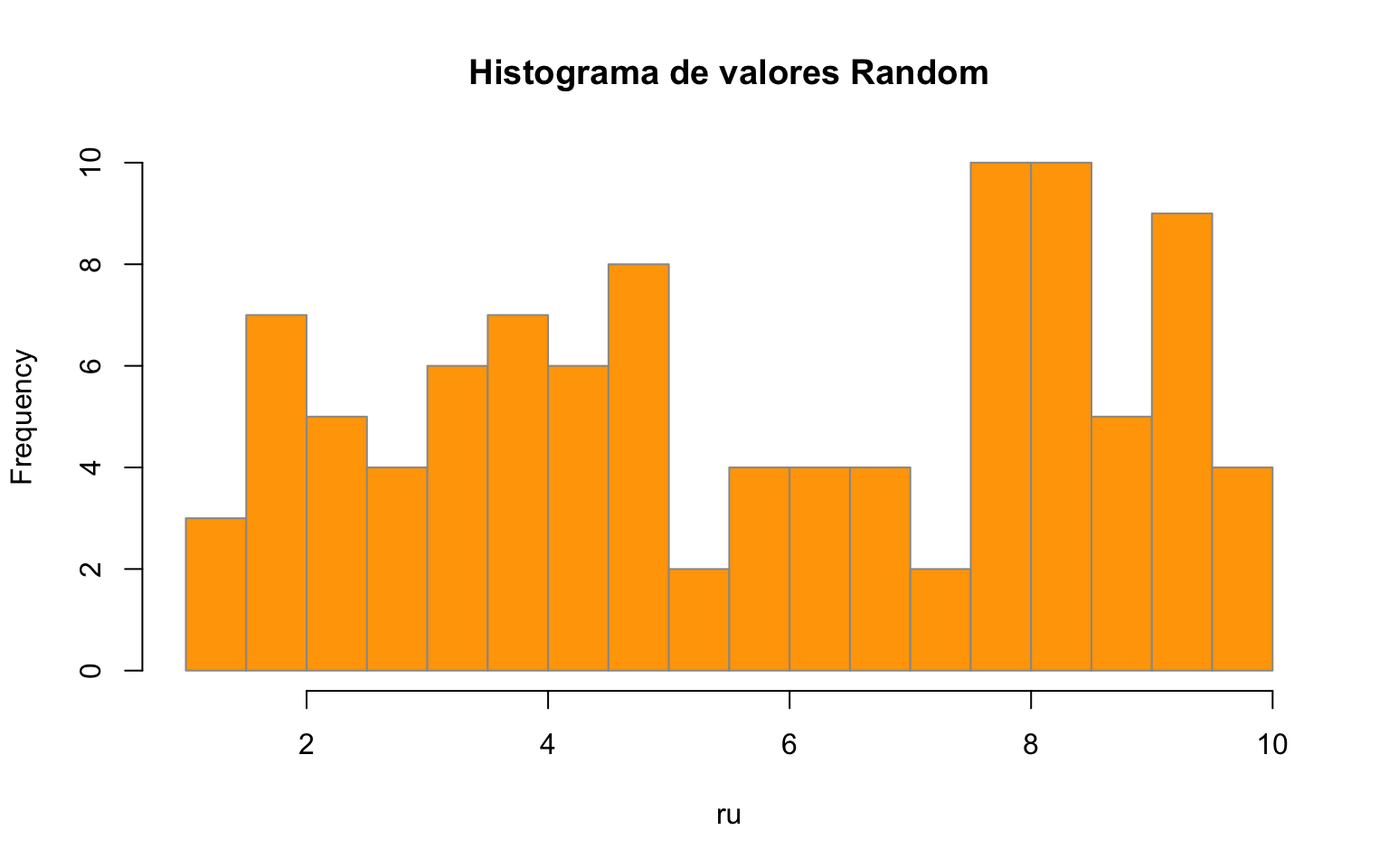
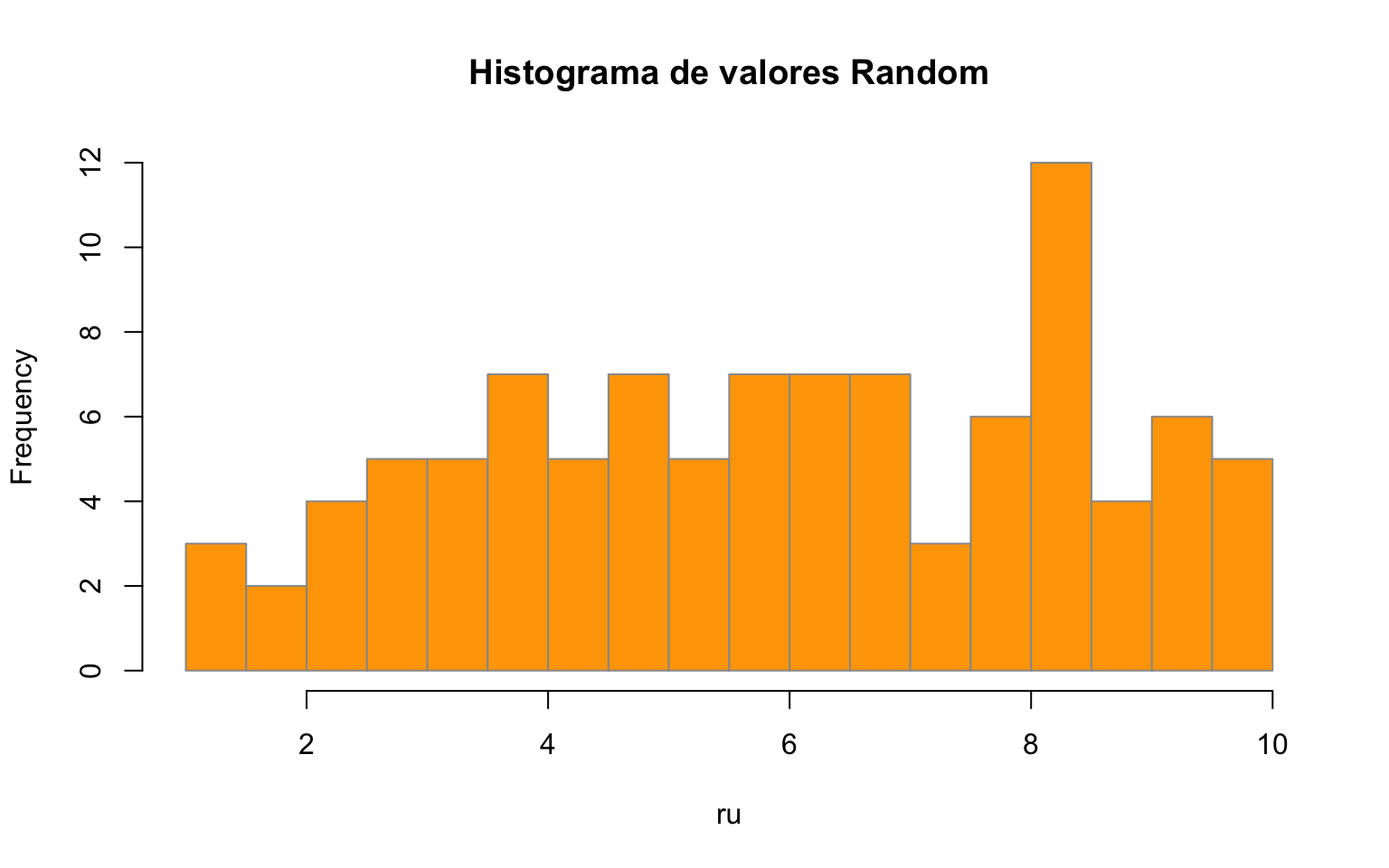
Built site for gh-pages

diff --git a/visualizaciones.html b/visualizaciones.html
@@ -383,6 +383,12 @@ Interpretación: Identificar concentración urbana o cobertura de datos.</p>
 </section>
 <section id="visualización-gráfica" class="level2" data-number="5.3">
 <h2 data-number="5.3" class="anchored" data-anchor-id="visualización-gráfica"><span class="header-section-number">5.3</span> Visualización gráfica</h2>
+<div class="quarto-figure quarto-figure-center">
+<figure class="figure">
+<p><img src="images/Rlogo.png" class="img-fluid quarto-figure quarto-figure-center figure-img" width="150"></p>
+</figure>
+</div>
+<p>A continaución se realizarán visualizaciones gráficas con R base</p>
 <section id="diagramas-de-barras-frecuencia-de-manzanas-por-comuna" class="level3" data-number="5.3.1">
 <h3 data-number="5.3.1" class="anchored" data-anchor-id="diagramas-de-barras-frecuencia-de-manzanas-por-comuna"><span class="header-section-number">5.3.1</span> Diagramas de barras (frecuencia de manzanas por comuna)</h3>
 <p>En este punto que generaremos algunos gráficos que visualicen la cantidad de manzanas que existen por comuna.</p>
@@ -483,8 +489,7 @@ Interpretación: Identificar concentración urbana o cobertura de datos.</p>
 <i class="callout-icon"></i>
 </div>
 <div class="callout-title-container flex-fill">
-valores outlier (atípicos)<br>
-
+valores outlier (atípicos)
 </div>
 <div class="callout-btn-toggle d-inline-block border-0 py-1 ps-1 pe-0 float-end"><i class="callout-toggle"></i></div>
 </div>
@@ -498,7 +503,7 @@ valores outlier (atípicos)<br>
 </ul></li>
 <li>¿Cómo extraer esos valores en R?</li>
 </ol>
-<p>Supamos que queremos identificar los outliers de cada comuna:</p>
+<p>Supongamos que queremos identificar los outliers de cada comuna:</p>
 <div class="cell">
 <div class="sourceCode cell-code" id="cb13"><pre class="sourceCode r code-with-copy"><code class="sourceCode r"><span id="cb13-1"><a href="#cb13-1" aria-hidden="true" tabindex="-1"></a>com_norte_sin_outliers <span class="ot">&lt;-</span> com_norte <span class="sc">%&gt;%</span></span>
 <span id="cb13-2"><a href="#cb13-2" aria-hidden="true" tabindex="-1"></a> <span class="fu">group_by</span>(n_com) <span class="sc">%&gt;%</span></span>
@@ -533,6 +538,11 @@ valores outlier (atípicos)<br>
 </section>
 <section id="visualización-avanzada-con-ggplot2" class="level2" data-number="5.4">
 <h2 data-number="5.4" class="anchored" data-anchor-id="visualización-avanzada-con-ggplot2"><span class="header-section-number">5.4</span> Visualización avanzada con <code>ggplot2</code></h2>
+<div class="quarto-figure quarto-figure-center">
+<figure class="figure">
+<p><img src="images/ggplot2.png" class="img-fluid quarto-figure quarto-figure-center figure-img" width="150"></p>
+</figure>
+</div>
 <p>La librería <a href="https://ggplot2.tidyverse.org/articles/ggplot2.html">ggplot2</a> es uno de los sistemas más potentes y versátiles para la visualización de datos en R. Basado en la “gramática de los gráficos”, permite construir visualizaciones complejas y altamente personalizables de manera estructurada y reproducible.</p>
 <p>Con ggplot2 puedes crear desde gráficos básicos como barras, histogramas y dispersión, hasta visualizaciones avanzadas, mapas y gráficos interactivos. La sintaxis está orientada a la composición modular: cada capa del gráfico (datos, geometría, escalas, temas, etiquetas) se define y ajusta de forma clara y coherente.</p>
 <section id="gráficos-de-barra-con-ggplot2" class="level3" data-number="5.4.1">
@@ -699,6 +709,11 @@ Actividad: Mejorar el estilo del gráficos
 </section>
 <section id="interactividad-con-plotly" class="level2" data-number="5.5">
 <h2 data-number="5.5" class="anchored" data-anchor-id="interactividad-con-plotly"><span class="header-section-number">5.5</span> Interactividad con <code>Plotly</code></h2>
+<div class="quarto-figure quarto-figure-center">
+<figure class="figure">
+<p><img src="images/Logo_Plotly.png" class="img-fluid quarto-figure quarto-figure-center figure-img" width="200"></p>
+</figure>
+</div>
 <p><code>Plotly</code> es una librería que permite convertir tus gráficos en R en visualizaciones interactivas, facilitando la exploración y el análisis visual de los datos. Plotly es especialmente útil para presentar resultados a audiencias no técnicas, ya que habilita funciones como zoom, hover (ver valores al pasar el mouse), selección dinámica y exportación directa.</p>
 <p>Puedes crear gráficos desde cero con la función <code>plot_ly()</code> o transformar gráficos estáticos de <code>ggplot2</code> en interactivos usando <code>ggplotly()</code>.</p>
 <p>La <a href="https://plotly.com/r/">documentación oficial de Plotly</a> para R ofrece numerosos ejemplos, tutoriales y guías para sacar el máximo provecho de sus capacidades interactivas en tus proyectos de análisis de datos.</p>
@@ -709,8 +724,8 @@ Actividad: Mejorar el estilo del gráficos
 <span id="cb19-3"><a href="#cb19-3" aria-hidden="true" tabindex="-1"></a></span>
 <span id="cb19-4"><a href="#cb19-4" aria-hidden="true" tabindex="-1"></a>bar_interactivo</span></code><button title="Copy to Clipboard" class="code-copy-button"><i class="bi"></i></button></pre></div>
 <div class="cell-output-display">
-<div class="plotly html-widget html-fill-item" id="htmlwidget-52bb167e75e817b739ad" style="width:100%;height:464px;"></div>
-<script type="application/json" data-for="htmlwidget-52bb167e75e817b739ad">{"x":{"data":[{"orientation":"h","width":[0.60000000000000009,0.59999999999999987,0.59999999999999964,0.59999999999999964,0.59999999999999964,0.59999999999999964,0.59999999999999964,0.60000000000000053,0.60000000000000142,0.60000000000000142],"base":[0,0,0,0,0,0,0,0,0,0],"x":[3692,3739,3842,4333,4342,4406,4509,4683,5772,5885],"y":[1,2,3,4,5,6,7,8,9,10],"text":["reorder(n_com, n): LA FLORIDA<br />n: 3692","reorder(n_com, n): RANCAGUA<br />n: 3739","reorder(n_com, n): PUERTO MONTT<br />n: 3842","reorder(n_com, n): TEMUCO<br />n: 4333","reorder(n_com, n): PUERTO NATALES<br />n: 4342","reorder(n_com, n): ANTOFAGASTA<br />n: 4406","reorder(n_com, n): VIÃ‘A DEL MAR<br />n: 4509","reorder(n_com, n): TALCA<br />n: 4683","reorder(n_com, n): MAIPU<br />n: 5772","reorder(n_com, n): PUENTE ALTO<br />n: 5885"],"type":"bar","textposition":"none","marker":{"autocolorscale":false,"color":"rgba(43,140,190,0.8)","line":{"width":1.8897637795275593,"color":"rgba(153,153,153,1)"}},"showlegend":false,"xaxis":"x","yaxis":"y","hoverinfo":"text","frame":null},{"x":[0,0,null,1000,1000,null,2000,2000,null,3000,3000,null,4000,4000,null,5000,5000],"y":[0.40000000000000002,10.6,null,0.40000000000000002,10.6,null,0.40000000000000002,10.6,null,0.40000000000000002,10.6,null,0.40000000000000002,10.6,null,0.40000000000000002,10.6],"text":["yintercept:    0","yintercept:    0",null,"yintercept: 1000","yintercept: 1000",null,"yintercept: 2000","yintercept: 2000",null,"yintercept: 3000","yintercept: 3000",null,"yintercept: 4000","yintercept: 4000",null,"yintercept: 5000","yintercept: 5000"],"type":"scatter","mode":"lines","line":{"width":1.5118110236220474,"color":"rgba(204,204,204,1)","dash":"dot"},"hoveron":"points","showlegend":false,"xaxis":"x","yaxis":"y","hoverinfo":"text","frame":null},{"x":[3692,3739,3842,4333,4342,4406,4509,4683,5772,5885],"y":[1,2,3,4,5,6,7,8,9,10],"text":[3692,3739,3842,4333,4342,4406,4509,4683,5772,5885],"hovertext":["reorder(n_com, n): LA FLORIDA<br />n: 3692<br />n: 3692","reorder(n_com, n): RANCAGUA<br />n: 3739<br />n: 3739","reorder(n_com, n): PUERTO MONTT<br />n: 3842<br />n: 3842","reorder(n_com, n): TEMUCO<br />n: 4333<br />n: 4333","reorder(n_com, n): PUERTO NATALES<br />n: 4342<br />n: 4342","reorder(n_com, n): ANTOFAGASTA<br />n: 4406<br />n: 4406","reorder(n_com, n): VIÃ‘A DEL MAR<br />n: 4509<br />n: 4509","reorder(n_com, n): TALCA<br />n: 4683<br />n: 4683","reorder(n_com, n): MAIPU<br />n: 5772<br />n: 5772","reorder(n_com, n): PUENTE ALTO<br />n: 5885<br />n: 5885"],"textfont":{"size":15.118110236220474,"color":"rgba(255,255,255,1)"},"type":"scatter","mode":"text","hoveron":"points","showlegend":false,"xaxis":"x","yaxis":"y","hoverinfo":"text","frame":null}],"layout":{"margin":{"t":54.522208385222093,"r":19.925280199252807,"b":53.997509339975103,"l":120.94645080946452},"plot_bgcolor":"rgba(255,255,255,1)","paper_bgcolor":"rgba(255,255,255,1)","font":{"color":"rgba(0,0,0,1)","family":"","size":17.268576172685762},"title":{"text":"<b> Top 10 comunas por <span style='color:#2B8CBE'>número de manzanas<\/span> <\/b>","font":{"color":"rgba(0,0,0,1)","family":"","size":19.925280199252807},"x":0,"xref":"paper"},"xaxis":{"domain":[0,1],"automargin":true,"type":"linear","autorange":false,"range":[-294.25,6179.25],"tickmode":"array","ticktext":["0","2000","4000","6000"],"tickvals":[0,2000,4000,6000],"categoryorder":"array","categoryarray":["0","2000","4000","6000"],"nticks":null,"ticks":"outside","tickcolor":"rgba(51,51,51,1)","ticklen":4.3171440431714405,"tickwidth":0.78493528057662576,"showticklabels":true,"tickfont":{"color":"rgba(77,77,77,1)","family":"","size":13.814860938148611},"tickangle":-0,"showline":false,"linecolor":null,"linewidth":0,"showgrid":true,"gridcolor":"rgba(235,235,235,1)","gridwidth":0.78493528057662576,"zeroline":false,"anchor":"y","title":{"text":"N° Manzanas","font":{"color":"rgba(0,0,0,1)","family":"","size":17.268576172685762}},"hoverformat":".2f"},"yaxis":{"domain":[0,1],"automargin":true,"type":"linear","autorange":false,"range":[0.40000000000000002,10.6],"tickmode":"array","ticktext":["LA FLORIDA","RANCAGUA","PUERTO MONTT","TEMUCO","PUERTO NATALES","ANTOFAGASTA","VIÃ‘A DEL MAR","TALCA","MAIPU","PUENTE ALTO"],"tickvals":[1,2,3,4,5,6.0000000000000009,7,8,9,10],"categoryorder":"array","categoryarray":["LA FLORIDA","RANCAGUA","PUERTO MONTT","TEMUCO","PUERTO NATALES","ANTOFAGASTA","VIÃ‘A DEL MAR","TALCA","MAIPU","PUENTE ALTO"],"nticks":null,"ticks":"outside","tickcolor":"rgba(51,51,51,1)","ticklen":4.3171440431714423,"tickwidth":0.78493528057662576,"showticklabels":true,"tickfont":{"color":"rgba(43,140,190,1)","family":"","size":13.814860938148611},"tickangle":-0,"showline":false,"linecolor":null,"linewidth":0,"showgrid":false,"gridcolor":null,"gridwidth":0,"zeroline":false,"anchor":"x","title":{"text":"","font":{"color":"rgba(0,0,0,1)","family":"","size":17.268576172685762}},"hoverformat":".2f"},"shapes":[{"type":"rect","fillcolor":"transparent","line":{"color":"rgba(51,51,51,1)","width":0.78493528057662576,"linetype":"solid"},"yref":"paper","xref":"paper","layer":"below","x0":0,"x1":1,"y0":0,"y1":1}],"showlegend":false,"legend":{"bgcolor":"rgba(255,255,255,1)","bordercolor":"transparent","borderwidth":2.2333571939871155,"font":{"color":"rgba(0,0,0,1)","family":"","size":13.814860938148611}},"hovermode":"closest","barmode":"relative"},"config":{"doubleClick":"reset","modeBarButtonsToAdd":["hoverclosest","hovercompare"],"showSendToCloud":false},"source":"A","attrs":{"31b98b990e8":{"x":{},"y":{},"type":"bar"},"31b94ed873d1":{"yintercept":{}},"31b9649bc6c7":{"x":{},"y":{},"label":{}}},"cur_data":"31b98b990e8","visdat":{"31b98b990e8":["function (y) ","x"],"31b94ed873d1":["function (y) ","x"],"31b9649bc6c7":["function (y) ","x"]},"highlight":{"on":"plotly_click","persistent":false,"dynamic":false,"selectize":false,"opacityDim":0.20000000000000001,"selected":{"opacity":1},"debounce":0},"shinyEvents":["plotly_hover","plotly_click","plotly_selected","plotly_relayout","plotly_brushed","plotly_brushing","plotly_clickannotation","plotly_doubleclick","plotly_deselect","plotly_afterplot","plotly_sunburstclick"],"base_url":"https://plot.ly"},"evals":[],"jsHooks":[]}</script>
+<div class="plotly html-widget html-fill-item" id="htmlwidget-ad5a15cabad94cd97b17" style="width:100%;height:464px;"></div>
+<script type="application/json" data-for="htmlwidget-ad5a15cabad94cd97b17">{"x":{"data":[{"orientation":"h","width":[0.60000000000000009,0.59999999999999987,0.59999999999999964,0.59999999999999964,0.59999999999999964,0.59999999999999964,0.59999999999999964,0.60000000000000053,0.60000000000000142,0.60000000000000142],"base":[0,0,0,0,0,0,0,0,0,0],"x":[3692,3739,3842,4333,4342,4406,4509,4683,5772,5885],"y":[1,2,3,4,5,6,7,8,9,10],"text":["reorder(n_com, n): LA FLORIDA<br />n: 3692","reorder(n_com, n): RANCAGUA<br />n: 3739","reorder(n_com, n): PUERTO MONTT<br />n: 3842","reorder(n_com, n): TEMUCO<br />n: 4333","reorder(n_com, n): PUERTO NATALES<br />n: 4342","reorder(n_com, n): ANTOFAGASTA<br />n: 4406","reorder(n_com, n): VIÃ‘A DEL MAR<br />n: 4509","reorder(n_com, n): TALCA<br />n: 4683","reorder(n_com, n): MAIPU<br />n: 5772","reorder(n_com, n): PUENTE ALTO<br />n: 5885"],"type":"bar","textposition":"none","marker":{"autocolorscale":false,"color":"rgba(43,140,190,0.8)","line":{"width":1.8897637795275593,"color":"rgba(153,153,153,1)"}},"showlegend":false,"xaxis":"x","yaxis":"y","hoverinfo":"text","frame":null},{"x":[0,0,null,1000,1000,null,2000,2000,null,3000,3000,null,4000,4000,null,5000,5000],"y":[0.40000000000000002,10.6,null,0.40000000000000002,10.6,null,0.40000000000000002,10.6,null,0.40000000000000002,10.6,null,0.40000000000000002,10.6,null,0.40000000000000002,10.6],"text":["yintercept:    0","yintercept:    0",null,"yintercept: 1000","yintercept: 1000",null,"yintercept: 2000","yintercept: 2000",null,"yintercept: 3000","yintercept: 3000",null,"yintercept: 4000","yintercept: 4000",null,"yintercept: 5000","yintercept: 5000"],"type":"scatter","mode":"lines","line":{"width":1.5118110236220474,"color":"rgba(204,204,204,1)","dash":"dot"},"hoveron":"points","showlegend":false,"xaxis":"x","yaxis":"y","hoverinfo":"text","frame":null},{"x":[3692,3739,3842,4333,4342,4406,4509,4683,5772,5885],"y":[1,2,3,4,5,6,7,8,9,10],"text":[3692,3739,3842,4333,4342,4406,4509,4683,5772,5885],"hovertext":["reorder(n_com, n): LA FLORIDA<br />n: 3692<br />n: 3692","reorder(n_com, n): RANCAGUA<br />n: 3739<br />n: 3739","reorder(n_com, n): PUERTO MONTT<br />n: 3842<br />n: 3842","reorder(n_com, n): TEMUCO<br />n: 4333<br />n: 4333","reorder(n_com, n): PUERTO NATALES<br />n: 4342<br />n: 4342","reorder(n_com, n): ANTOFAGASTA<br />n: 4406<br />n: 4406","reorder(n_com, n): VIÃ‘A DEL MAR<br />n: 4509<br />n: 4509","reorder(n_com, n): TALCA<br />n: 4683<br />n: 4683","reorder(n_com, n): MAIPU<br />n: 5772<br />n: 5772","reorder(n_com, n): PUENTE ALTO<br />n: 5885<br />n: 5885"],"textfont":{"size":15.118110236220474,"color":"rgba(255,255,255,1)"},"type":"scatter","mode":"text","hoveron":"points","showlegend":false,"xaxis":"x","yaxis":"y","hoverinfo":"text","frame":null}],"layout":{"margin":{"t":54.522208385222093,"r":19.925280199252807,"b":53.997509339975103,"l":120.94645080946452},"plot_bgcolor":"rgba(255,255,255,1)","paper_bgcolor":"rgba(255,255,255,1)","font":{"color":"rgba(0,0,0,1)","family":"","size":17.268576172685762},"title":{"text":"<b> Top 10 comunas por <span style='color:#2B8CBE'>número de manzanas<\/span> <\/b>","font":{"color":"rgba(0,0,0,1)","family":"","size":19.925280199252807},"x":0,"xref":"paper"},"xaxis":{"domain":[0,1],"automargin":true,"type":"linear","autorange":false,"range":[-294.25,6179.25],"tickmode":"array","ticktext":["0","2000","4000","6000"],"tickvals":[0,2000,4000,6000],"categoryorder":"array","categoryarray":["0","2000","4000","6000"],"nticks":null,"ticks":"outside","tickcolor":"rgba(51,51,51,1)","ticklen":4.3171440431714405,"tickwidth":0.78493528057662576,"showticklabels":true,"tickfont":{"color":"rgba(77,77,77,1)","family":"","size":13.814860938148611},"tickangle":-0,"showline":false,"linecolor":null,"linewidth":0,"showgrid":true,"gridcolor":"rgba(235,235,235,1)","gridwidth":0.78493528057662576,"zeroline":false,"anchor":"y","title":{"text":"N° Manzanas","font":{"color":"rgba(0,0,0,1)","family":"","size":17.268576172685762}},"hoverformat":".2f"},"yaxis":{"domain":[0,1],"automargin":true,"type":"linear","autorange":false,"range":[0.40000000000000002,10.6],"tickmode":"array","ticktext":["LA FLORIDA","RANCAGUA","PUERTO MONTT","TEMUCO","PUERTO NATALES","ANTOFAGASTA","VIÃ‘A DEL MAR","TALCA","MAIPU","PUENTE ALTO"],"tickvals":[1,2,3,4,5,6.0000000000000009,7,8,9,10],"categoryorder":"array","categoryarray":["LA FLORIDA","RANCAGUA","PUERTO MONTT","TEMUCO","PUERTO NATALES","ANTOFAGASTA","VIÃ‘A DEL MAR","TALCA","MAIPU","PUENTE ALTO"],"nticks":null,"ticks":"outside","tickcolor":"rgba(51,51,51,1)","ticklen":4.3171440431714423,"tickwidth":0.78493528057662576,"showticklabels":true,"tickfont":{"color":"rgba(43,140,190,1)","family":"","size":13.814860938148611},"tickangle":-0,"showline":false,"linecolor":null,"linewidth":0,"showgrid":false,"gridcolor":null,"gridwidth":0,"zeroline":false,"anchor":"x","title":{"text":"","font":{"color":"rgba(0,0,0,1)","family":"","size":17.268576172685762}},"hoverformat":".2f"},"shapes":[{"type":"rect","fillcolor":"transparent","line":{"color":"rgba(51,51,51,1)","width":0.78493528057662576,"linetype":"solid"},"yref":"paper","xref":"paper","layer":"below","x0":0,"x1":1,"y0":0,"y1":1}],"showlegend":false,"legend":{"bgcolor":"rgba(255,255,255,1)","bordercolor":"transparent","borderwidth":2.2333571939871155,"font":{"color":"rgba(0,0,0,1)","family":"","size":13.814860938148611}},"hovermode":"closest","barmode":"relative"},"config":{"doubleClick":"reset","modeBarButtonsToAdd":["hoverclosest","hovercompare"],"showSendToCloud":false},"source":"A","attrs":{"410a3e5445fc":{"x":{},"y":{},"type":"bar"},"410aebec35c":{"yintercept":{}},"410ae0bd494":{"x":{},"y":{},"label":{}}},"cur_data":"410a3e5445fc","visdat":{"410a3e5445fc":["function (y) ","x"],"410aebec35c":["function (y) ","x"],"410ae0bd494":["function (y) ","x"]},"highlight":{"on":"plotly_click","persistent":false,"dynamic":false,"selectize":false,"opacityDim":0.20000000000000001,"selected":{"opacity":1},"debounce":0},"shinyEvents":["plotly_hover","plotly_click","plotly_selected","plotly_relayout","plotly_brushed","plotly_brushing","plotly_clickannotation","plotly_doubleclick","plotly_deselect","plotly_afterplot","plotly_sunburstclick"],"base_url":"https://plot.ly"},"evals":[],"jsHooks":[]}</script>
 </div>
 </div>
 <div class="callout callout-style-default callout-note callout-titled">

diff --git a/dataframes.html b/dataframes.html
@@ -535,8 +535,8 @@ Acceso a Datos de Casos Policiales Sala CEAD
 <span id="cb22-4"><a href="#cb22-4" aria-hidden="true" tabindex="-1"></a><span class="co"># Convertir un gráfico estático en dinámico</span></span>
 <span id="cb22-5"><a href="#cb22-5" aria-hidden="true" tabindex="-1"></a><span class="fu">ggplotly</span>(g_barra)</span></code><button title="Copy to Clipboard" class="code-copy-button"><i class="bi"></i></button></pre></div>
 <div class="cell-output-display">
-<div class="plotly html-widget html-fill-item" id="htmlwidget-53f10add0d4ea9c3ae4d" style="width:100%;height:464px;"></div>
-<script type="application/json" data-for="htmlwidget-53f10add0d4ea9c3ae4d">{"x":{"data":[{"orientation":"h","width":[0.70000000000000007,0.70000000000000018,0.70000000000000018,0.69999999999999973,0.69999999999999929,0.69999999999999929,0.69999999999999929,0.69999999999999929,0.69999999999999929,0.69999999999999929,0.69999999999999929,0.69999999999999929,0.69999999999999929,0.69999999999999929,0.69999999999999929,0.70000000000000107,0.70000000000000284,0.70000000000000284,0.70000000000000284,0.70000000000000284,0.70000000000000284,0.70000000000000284,0.70000000000000284,0.70000000000000284,0.70000000000000284,0.70000000000000284,0.70000000000000284,0.70000000000000284,0.70000000000000284,0.70000000000000284,0.70000000000000284,0.70000000000000284],"base":[0,0,0,0,0,0,0,0,0,0,0,0,0,0,0,0,0,0,0,0,0,0,0,0,0,0,0,0,0,0,0,0],"x":[27.760000000000002,15.539999999999999,28.489999999999998,44.189999999999998,11,19.129999999999999,17.66,68.799999999999997,27.469999999999999,26.02,31.23,20.739999999999998,26.359999999999999,27.93,19.41,15.73,19.82,20.379999999999999,23.289999999999999,17.379999999999999,33.840000000000003,28.510000000000002,28.890000000000001,29.390000000000001,25.850000000000001,38.700000000000003,13.970000000000001,14.4,38.939999999999998,31.379999999999999,26.780000000000001,33.43],"y":[1,2,3,4,5,6,7,8,9,10,11,12,13,14,15,16,17,18,19,20,21,22,23,24,25,26,27,28,29,30,31,32],"text":["NOM_COMUNA: ANGOL<br />del_10000_hab: 27.76","NOM_COMUNA: CARAHUE<br />del_10000_hab: 15.54","NOM_COMUNA: CHOLCHOL<br />del_10000_hab: 28.49","NOM_COMUNA: COLLIPULLI<br />del_10000_hab: 44.19","NOM_COMUNA: CUNCO<br />del_10000_hab: 11.00","NOM_COMUNA: CURACAUTÍN<br />del_10000_hab: 19.13","NOM_COMUNA: CURARREHUE<br />del_10000_hab: 17.66","NOM_COMUNA: ERCILLA<br />del_10000_hab: 68.80","NOM_COMUNA: FREIRE<br />del_10000_hab: 27.47","NOM_COMUNA: GALVARINO<br />del_10000_hab: 26.02","NOM_COMUNA: GORBEA<br />del_10000_hab: 31.23","NOM_COMUNA: LAUTARO<br />del_10000_hab: 20.74","NOM_COMUNA: LONCOCHE<br />del_10000_hab: 26.36","NOM_COMUNA: LONQUIMAY<br />del_10000_hab: 27.93","NOM_COMUNA: LOS SAUCES<br />del_10000_hab: 19.41","NOM_COMUNA: LUMACO<br />del_10000_hab: 15.73","NOM_COMUNA: MELIPEUCO<br />del_10000_hab: 19.82","NOM_COMUNA: NUEVA IMPERIAL<br />del_10000_hab: 20.38","NOM_COMUNA: PADRE LAS CASAS<br />del_10000_hab: 23.29","NOM_COMUNA: PERQUENCO<br />del_10000_hab: 17.38","NOM_COMUNA: PITRUFQUÉN<br />del_10000_hab: 33.84","NOM_COMUNA: PUCÓN<br />del_10000_hab: 28.51","NOM_COMUNA: PURÉN<br />del_10000_hab: 28.89","NOM_COMUNA: RENAICO<br />del_10000_hab: 29.39","NOM_COMUNA: SAAVEDRA<br />del_10000_hab: 25.85","NOM_COMUNA: TEMUCO<br />del_10000_hab: 38.70","NOM_COMUNA: TEODORO SCHMIDT<br />del_10000_hab: 13.97","NOM_COMUNA: TOLTÉN<br />del_10000_hab: 14.40","NOM_COMUNA: TRAIGUÉN<br />del_10000_hab: 38.94","NOM_COMUNA: VICTORIA<br />del_10000_hab: 31.38","NOM_COMUNA: VILCÚN<br />del_10000_hab: 26.78","NOM_COMUNA: VILLARRICA<br />del_10000_hab: 33.43"],"type":"bar","textposition":"none","marker":{"autocolorscale":false,"color":"rgba(106,81,163,1)","line":{"width":1.8897637795275593,"color":"rgba(229,229,229,1)"}},"showlegend":false,"xaxis":"x","yaxis":"y","hoverinfo":"text","frame":null}],"layout":{"margin":{"t":42.168534661685349,"r":7.3059360730593621,"b":40.182648401826498,"l":113.24200913242012},"plot_bgcolor":"rgba(255,255,255,1)","paper_bgcolor":"rgba(255,255,255,1)","font":{"color":"rgba(0,0,0,1)","family":"","size":14.611872146118724},"title":{"text":"<b> Delitos Violentos en la Región de la Araucanía <\/b>","font":{"color":"rgba(51,51,51,1)","family":"","size":15.940224159402241},"x":0,"xref":"paper"},"xaxis":{"domain":[0,1],"automargin":true,"type":"linear","autorange":false,"range":[-3.4399999999999999,72.239999999999995],"tickmode":"array","ticktext":["0","20","40","60"],"tickvals":[0,20,40,60],"categoryorder":"array","categoryarray":["0","20","40","60"],"nticks":null,"ticks":"outside","tickcolor":"rgba(51,51,51,1)","ticklen":3.6529680365296811,"tickwidth":0.66417600664176002,"showticklabels":true,"tickfont":{"color":"rgba(77,77,77,1)","family":"","size":11.68949771689498},"tickangle":-0,"showline":false,"linecolor":null,"linewidth":0,"showgrid":true,"gridcolor":"rgba(235,235,235,1)","gridwidth":0.66417600664176002,"zeroline":false,"anchor":"y","title":{"text":"Delitos Violentos / 10000 hebitantes","font":{"color":"rgba(0,0,0,1)","family":"","size":14.611872146118724}},"hoverformat":".2f"},"yaxis":{"domain":[0,1],"automargin":true,"type":"linear","autorange":false,"range":[0.40000000000000002,32.600000000000001],"tickmode":"array","ticktext":["ANGOL","CARAHUE","CHOLCHOL","COLLIPULLI","CUNCO","CURACAUTÍN","CURARREHUE","ERCILLA","FREIRE","GALVARINO","GORBEA","LAUTARO","LONCOCHE","LONQUIMAY","LOS SAUCES","LUMACO","MELIPEUCO","NUEVA IMPERIAL","PADRE LAS CASAS","PERQUENCO","PITRUFQUÉN","PUCÓN","PURÉN","RENAICO","SAAVEDRA","TEMUCO","TEODORO SCHMIDT","TOLTÉN","TRAIGUÉN","VICTORIA","VILCÚN","VILLARRICA"],"tickvals":[1,2,3,4,5,6,7,8,9,10,11,12,13,14,15,16,17,18,19,20,21,22,23,24,25,26,27,28,29,30,31,32],"categoryorder":"array","categoryarray":["ANGOL","CARAHUE","CHOLCHOL","COLLIPULLI","CUNCO","CURACAUTÍN","CURARREHUE","ERCILLA","FREIRE","GALVARINO","GORBEA","LAUTARO","LONCOCHE","LONQUIMAY","LOS SAUCES","LUMACO","MELIPEUCO","NUEVA IMPERIAL","PADRE LAS CASAS","PERQUENCO","PITRUFQUÉN","PUCÓN","PURÉN","RENAICO","SAAVEDRA","TEMUCO","TEODORO SCHMIDT","TOLTÉN","TRAIGUÉN","VICTORIA","VILCÚN","VILLARRICA"],"nticks":null,"ticks":"outside","tickcolor":"rgba(51,51,51,1)","ticklen":3.6529680365296811,"tickwidth":0.66417600664176002,"showticklabels":true,"tickfont":{"color":"rgba(77,77,77,1)","family":"","size":11.68949771689498},"tickangle":-0,"showline":false,"linecolor":null,"linewidth":0,"showgrid":true,"gridcolor":"rgba(235,235,235,1)","gridwidth":0.66417600664176002,"zeroline":false,"anchor":"x","title":{"text":"Nombre de Comuna","font":{"color":"rgba(0,0,0,1)","family":"","size":14.611872146118724}},"hoverformat":".2f"},"shapes":[{"type":"rect","fillcolor":"transparent","line":{"color":"rgba(51,51,51,1)","width":0.66417600664176002,"linetype":"solid"},"yref":"paper","xref":"paper","layer":"below","x0":0,"x1":1,"y0":0,"y1":1}],"showlegend":false,"legend":{"bgcolor":"rgba(255,255,255,1)","bordercolor":"transparent","borderwidth":1.8897637795275593,"font":{"color":"rgba(0,0,0,1)","family":"","size":11.68949771689498}},"hovermode":"closest","barmode":"relative"},"config":{"doubleClick":"reset","modeBarButtonsToAdd":["hoverclosest","hovercompare"],"showSendToCloud":false},"source":"A","attrs":{"31e17d19f58e":{"x":{},"y":{},"type":"bar"}},"cur_data":"31e17d19f58e","visdat":{"31e17d19f58e":["function (y) ","x"]},"highlight":{"on":"plotly_click","persistent":false,"dynamic":false,"selectize":false,"opacityDim":0.20000000000000001,"selected":{"opacity":1},"debounce":0},"shinyEvents":["plotly_hover","plotly_click","plotly_selected","plotly_relayout","plotly_brushed","plotly_brushing","plotly_clickannotation","plotly_doubleclick","plotly_deselect","plotly_afterplot","plotly_sunburstclick"],"base_url":"https://plot.ly"},"evals":[],"jsHooks":[]}</script>
+<div class="plotly html-widget html-fill-item" id="htmlwidget-950af2592f4a24f33d27" style="width:100%;height:464px;"></div>
+<script type="application/json" data-for="htmlwidget-950af2592f4a24f33d27">{"x":{"data":[{"orientation":"h","width":[0.70000000000000007,0.70000000000000018,0.70000000000000018,0.69999999999999973,0.69999999999999929,0.69999999999999929,0.69999999999999929,0.69999999999999929,0.69999999999999929,0.69999999999999929,0.69999999999999929,0.69999999999999929,0.69999999999999929,0.69999999999999929,0.69999999999999929,0.70000000000000107,0.70000000000000284,0.70000000000000284,0.70000000000000284,0.70000000000000284,0.70000000000000284,0.70000000000000284,0.70000000000000284,0.70000000000000284,0.70000000000000284,0.70000000000000284,0.70000000000000284,0.70000000000000284,0.70000000000000284,0.70000000000000284,0.70000000000000284,0.70000000000000284],"base":[0,0,0,0,0,0,0,0,0,0,0,0,0,0,0,0,0,0,0,0,0,0,0,0,0,0,0,0,0,0,0,0],"x":[27.760000000000002,15.539999999999999,28.489999999999998,44.189999999999998,11,19.129999999999999,17.66,68.799999999999997,27.469999999999999,26.02,31.23,20.739999999999998,26.359999999999999,27.93,19.41,15.73,19.82,20.379999999999999,23.289999999999999,17.379999999999999,33.840000000000003,28.510000000000002,28.890000000000001,29.390000000000001,25.850000000000001,38.700000000000003,13.970000000000001,14.4,38.939999999999998,31.379999999999999,26.780000000000001,33.43],"y":[1,2,3,4,5,6,7,8,9,10,11,12,13,14,15,16,17,18,19,20,21,22,23,24,25,26,27,28,29,30,31,32],"text":["NOM_COMUNA: ANGOL<br />del_10000_hab: 27.76","NOM_COMUNA: CARAHUE<br />del_10000_hab: 15.54","NOM_COMUNA: CHOLCHOL<br />del_10000_hab: 28.49","NOM_COMUNA: COLLIPULLI<br />del_10000_hab: 44.19","NOM_COMUNA: CUNCO<br />del_10000_hab: 11.00","NOM_COMUNA: CURACAUTÍN<br />del_10000_hab: 19.13","NOM_COMUNA: CURARREHUE<br />del_10000_hab: 17.66","NOM_COMUNA: ERCILLA<br />del_10000_hab: 68.80","NOM_COMUNA: FREIRE<br />del_10000_hab: 27.47","NOM_COMUNA: GALVARINO<br />del_10000_hab: 26.02","NOM_COMUNA: GORBEA<br />del_10000_hab: 31.23","NOM_COMUNA: LAUTARO<br />del_10000_hab: 20.74","NOM_COMUNA: LONCOCHE<br />del_10000_hab: 26.36","NOM_COMUNA: LONQUIMAY<br />del_10000_hab: 27.93","NOM_COMUNA: LOS SAUCES<br />del_10000_hab: 19.41","NOM_COMUNA: LUMACO<br />del_10000_hab: 15.73","NOM_COMUNA: MELIPEUCO<br />del_10000_hab: 19.82","NOM_COMUNA: NUEVA IMPERIAL<br />del_10000_hab: 20.38","NOM_COMUNA: PADRE LAS CASAS<br />del_10000_hab: 23.29","NOM_COMUNA: PERQUENCO<br />del_10000_hab: 17.38","NOM_COMUNA: PITRUFQUÉN<br />del_10000_hab: 33.84","NOM_COMUNA: PUCÓN<br />del_10000_hab: 28.51","NOM_COMUNA: PURÉN<br />del_10000_hab: 28.89","NOM_COMUNA: RENAICO<br />del_10000_hab: 29.39","NOM_COMUNA: SAAVEDRA<br />del_10000_hab: 25.85","NOM_COMUNA: TEMUCO<br />del_10000_hab: 38.70","NOM_COMUNA: TEODORO SCHMIDT<br />del_10000_hab: 13.97","NOM_COMUNA: TOLTÉN<br />del_10000_hab: 14.40","NOM_COMUNA: TRAIGUÉN<br />del_10000_hab: 38.94","NOM_COMUNA: VICTORIA<br />del_10000_hab: 31.38","NOM_COMUNA: VILCÚN<br />del_10000_hab: 26.78","NOM_COMUNA: VILLARRICA<br />del_10000_hab: 33.43"],"type":"bar","textposition":"none","marker":{"autocolorscale":false,"color":"rgba(106,81,163,1)","line":{"width":1.8897637795275593,"color":"rgba(229,229,229,1)"}},"showlegend":false,"xaxis":"x","yaxis":"y","hoverinfo":"text","frame":null}],"layout":{"margin":{"t":42.168534661685349,"r":7.3059360730593621,"b":40.182648401826498,"l":113.24200913242012},"plot_bgcolor":"rgba(255,255,255,1)","paper_bgcolor":"rgba(255,255,255,1)","font":{"color":"rgba(0,0,0,1)","family":"","size":14.611872146118724},"title":{"text":"<b> Delitos Violentos en la Región de la Araucanía <\/b>","font":{"color":"rgba(51,51,51,1)","family":"","size":15.940224159402241},"x":0,"xref":"paper"},"xaxis":{"domain":[0,1],"automargin":true,"type":"linear","autorange":false,"range":[-3.4399999999999999,72.239999999999995],"tickmode":"array","ticktext":["0","20","40","60"],"tickvals":[0,20,40,60],"categoryorder":"array","categoryarray":["0","20","40","60"],"nticks":null,"ticks":"outside","tickcolor":"rgba(51,51,51,1)","ticklen":3.6529680365296811,"tickwidth":0.66417600664176002,"showticklabels":true,"tickfont":{"color":"rgba(77,77,77,1)","family":"","size":11.68949771689498},"tickangle":-0,"showline":false,"linecolor":null,"linewidth":0,"showgrid":true,"gridcolor":"rgba(235,235,235,1)","gridwidth":0.66417600664176002,"zeroline":false,"anchor":"y","title":{"text":"Delitos Violentos / 10000 hebitantes","font":{"color":"rgba(0,0,0,1)","family":"","size":14.611872146118724}},"hoverformat":".2f"},"yaxis":{"domain":[0,1],"automargin":true,"type":"linear","autorange":false,"range":[0.40000000000000002,32.600000000000001],"tickmode":"array","ticktext":["ANGOL","CARAHUE","CHOLCHOL","COLLIPULLI","CUNCO","CURACAUTÍN","CURARREHUE","ERCILLA","FREIRE","GALVARINO","GORBEA","LAUTARO","LONCOCHE","LONQUIMAY","LOS SAUCES","LUMACO","MELIPEUCO","NUEVA IMPERIAL","PADRE LAS CASAS","PERQUENCO","PITRUFQUÉN","PUCÓN","PURÉN","RENAICO","SAAVEDRA","TEMUCO","TEODORO SCHMIDT","TOLTÉN","TRAIGUÉN","VICTORIA","VILCÚN","VILLARRICA"],"tickvals":[1,2,3,4,5,6,7,8,9,10,11,12,13,14,15,16,17,18,19,20,21,22,23,24,25,26,27,28,29,30,31,32],"categoryorder":"array","categoryarray":["ANGOL","CARAHUE","CHOLCHOL","COLLIPULLI","CUNCO","CURACAUTÍN","CURARREHUE","ERCILLA","FREIRE","GALVARINO","GORBEA","LAUTARO","LONCOCHE","LONQUIMAY","LOS SAUCES","LUMACO","MELIPEUCO","NUEVA IMPERIAL","PADRE LAS CASAS","PERQUENCO","PITRUFQUÉN","PUCÓN","PURÉN","RENAICO","SAAVEDRA","TEMUCO","TEODORO SCHMIDT","TOLTÉN","TRAIGUÉN","VICTORIA","VILCÚN","VILLARRICA"],"nticks":null,"ticks":"outside","tickcolor":"rgba(51,51,51,1)","ticklen":3.6529680365296811,"tickwidth":0.66417600664176002,"showticklabels":true,"tickfont":{"color":"rgba(77,77,77,1)","family":"","size":11.68949771689498},"tickangle":-0,"showline":false,"linecolor":null,"linewidth":0,"showgrid":true,"gridcolor":"rgba(235,235,235,1)","gridwidth":0.66417600664176002,"zeroline":false,"anchor":"x","title":{"text":"Nombre de Comuna","font":{"color":"rgba(0,0,0,1)","family":"","size":14.611872146118724}},"hoverformat":".2f"},"shapes":[{"type":"rect","fillcolor":"transparent","line":{"color":"rgba(51,51,51,1)","width":0.66417600664176002,"linetype":"solid"},"yref":"paper","xref":"paper","layer":"below","x0":0,"x1":1,"y0":0,"y1":1}],"showlegend":false,"legend":{"bgcolor":"rgba(255,255,255,1)","bordercolor":"transparent","borderwidth":1.8897637795275593,"font":{"color":"rgba(0,0,0,1)","family":"","size":11.68949771689498}},"hovermode":"closest","barmode":"relative"},"config":{"doubleClick":"reset","modeBarButtonsToAdd":["hoverclosest","hovercompare"],"showSendToCloud":false},"source":"A","attrs":{"412a64a1b650":{"x":{},"y":{},"type":"bar"}},"cur_data":"412a64a1b650","visdat":{"412a64a1b650":["function (y) ","x"]},"highlight":{"on":"plotly_click","persistent":false,"dynamic":false,"selectize":false,"opacityDim":0.20000000000000001,"selected":{"opacity":1},"debounce":0},"shinyEvents":["plotly_hover","plotly_click","plotly_selected","plotly_relayout","plotly_brushed","plotly_brushing","plotly_clickannotation","plotly_doubleclick","plotly_deselect","plotly_afterplot","plotly_sunburstclick"],"base_url":"https://plot.ly"},"evals":[],"jsHooks":[]}</script>
 </div>
 </div>
 </section>

diff --git a/variables.html b/variables.html
@@ -323,19 +323,19 @@ pre > code.sourceCode > span > a:first-child::before { text-decoration: underlin
 <div class="sourceCode cell-code" id="cb7"><pre class="sourceCode r code-with-copy"><code class="sourceCode r"><span id="cb7-1"><a href="#cb7-1" aria-hidden="true" tabindex="-1"></a>ru <span class="ot">&lt;-</span> <span class="fu">runif</span>(<span class="at">n =</span> <span class="dv">100</span>, <span class="at">min =</span> <span class="dv">1</span>, <span class="at">max =</span> <span class="dv">10</span>)</span>
 <span id="cb7-2"><a href="#cb7-2" aria-hidden="true" tabindex="-1"></a>ru</span></code><button title="Copy to Clipboard" class="code-copy-button"><i class="bi"></i></button></pre></div>
 <div class="cell-output cell-output-stdout">
-<pre><code>  [1] 8.190049 7.038584 1.310425 3.846453 8.937609 2.473498 9.062262 9.420729
-  [9] 3.262574 7.869982 9.433816 6.197634 7.827212 3.311134 9.101764 2.236514
- [17] 8.019420 3.796738 4.846720 6.742990 5.332006 7.867767 4.428235 8.257264
- [25] 8.190792 9.846234 9.318158 7.682545 7.521292 5.278390 1.334195 1.914774
- [33] 9.129977 8.174630 7.995275 8.913158 1.586281 4.227779 2.131048 3.031130
- [41] 4.542254 6.073088 9.473634 2.605645 4.325113 4.907564 4.229461 3.906857
- [49] 8.470769 1.597169 8.218087 7.986825 6.903070 9.677640 4.365596 9.223685
- [57] 6.419169 3.666522 5.808348 4.885413 3.306329 7.081880 2.633995 9.109855
- [65] 4.683127 8.452709 3.732164 8.408873 1.518939 7.769597 2.249223 8.872373
- [73] 5.941694 3.459544 1.663472 4.416897 8.324292 7.727127 6.628285 1.754440
- [81] 2.705747 4.826243 1.412511 4.788435 2.837726 6.058768 7.908071 6.912236
- [89] 3.671645 5.682996 5.950496 9.533831 8.686098 1.741389 3.351136 8.505692
- [97] 4.874309 9.582917 3.876366 2.198857</code></pre>
+<pre><code>  [1] 1.565135 9.659617 4.224208 8.746547 2.772984 1.413475 5.536488 3.600283
+  [9] 9.732857 2.635339 2.602168 9.322179 7.719612 5.358889 2.717698 5.438209
+ [17] 3.701296 9.373833 3.426901 6.759884 2.292244 2.681814 6.517075 4.978354
+ [25] 6.331175 9.906614 9.956670 8.058236 7.725374 8.473097 7.551183 4.664539
+ [33] 2.216973 8.428273 8.333025 5.371124 6.526711 5.530566 4.097908 5.578790
+ [41] 3.554803 6.450552 9.160821 4.488870 4.067311 3.118826 4.595223 7.908626
+ [49] 3.792303 5.306543 3.178153 4.882537 9.828904 6.146158 7.808113 4.942886
+ [57] 4.771202 3.072183 8.181313 1.787025 7.403872 5.495198 3.175352 4.438666
+ [65] 8.522170 6.021910 9.204098 6.050744 8.435047 3.574376 9.102641 6.123575
+ [73] 1.280168 7.307184 7.939148 3.729436 3.950730 7.164876 5.860836 5.669152
+ [81] 6.975957 6.850288 5.918562 9.163848 1.434634 5.536309 8.381542 8.346171
+ [89] 2.044164 6.291842 8.866150 8.367599 6.621118 2.188223 4.728945 8.734502
+ [97] 8.137485 8.006720 6.738146 8.304423</code></pre>
 </div>
 </div>
 <div class="cell" data-layout-align="center">
@@ -354,7 +354,7 @@ pre > code.sourceCode > span > a:first-child::before { text-decoration: underlin
 <div class="cell">
 <div class="sourceCode cell-code" id="cb10"><pre class="sourceCode r code-with-copy"><code class="sourceCode r"><span id="cb10-1"><a href="#cb10-1" aria-hidden="true" tabindex="-1"></a><span class="fu">sample.int</span>(<span class="at">n =</span> <span class="dv">6</span>, <span class="at">size =</span> <span class="dv">10</span>, <span class="at">replace =</span> T)</span></code><button title="Copy to Clipboard" class="code-copy-button"><i class="bi"></i></button></pre></div>
 <div class="cell-output cell-output-stdout">
-<pre><code> [1] 5 1 5 3 6 1 3 5 3 5</code></pre>
+<pre><code> [1] 2 6 1 4 6 4 6 6 2 6</code></pre>
 </div>
 </div>
 </section>

diff --git a/control_r.html b/control_r.html
@@ -408,10 +408,10 @@ pre > code.sourceCode > span > a:first-child::before { text-decoration: underlin
 <span id="cb17-6"><a href="#cb17-6" aria-hidden="true" tabindex="-1"></a>  <span class="fu">print</span>(promedio)</span>
 <span id="cb17-7"><a href="#cb17-7" aria-hidden="true" tabindex="-1"></a>}</span></code><button title="Copy to Clipboard" class="code-copy-button"><i class="bi"></i></button></pre></div>
 <div class="cell-output cell-output-stdout">
-<pre><code>[1] -0.5461507
-[1] 0.01258944
-[1] -0.3086331
-[1] -0.2813938</code></pre>
+<pre><code>[1] 0.5321755
+[1] 0.5886945
+[1] -0.3204889
+[1] 0.2505814</code></pre>
 </div>
 </div>
 </section>
